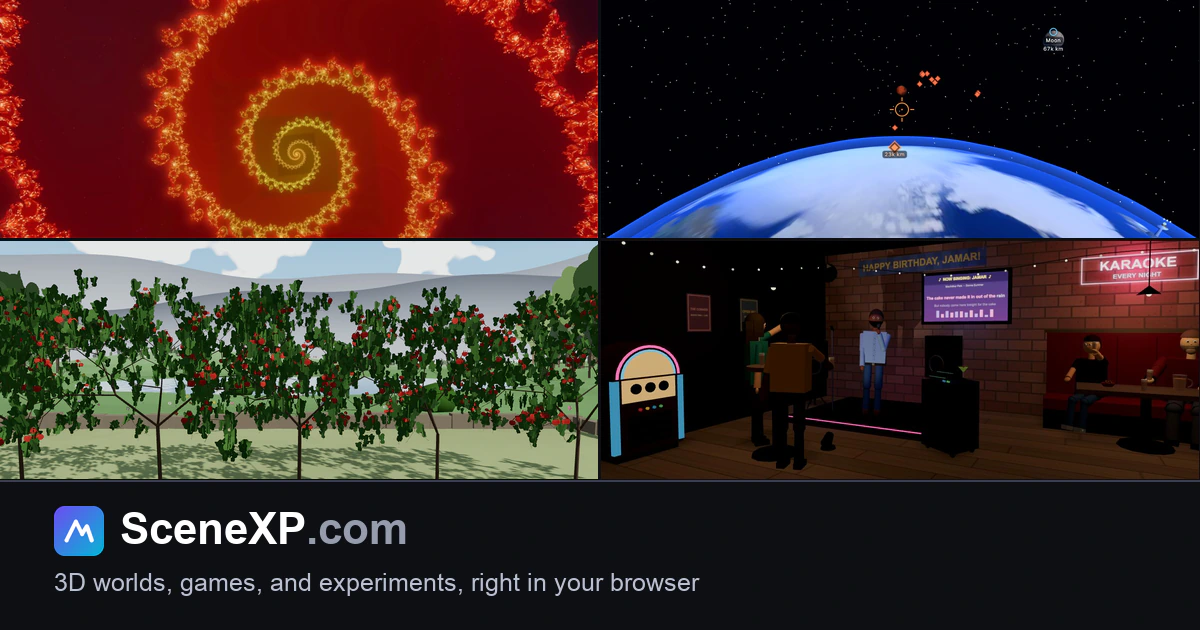
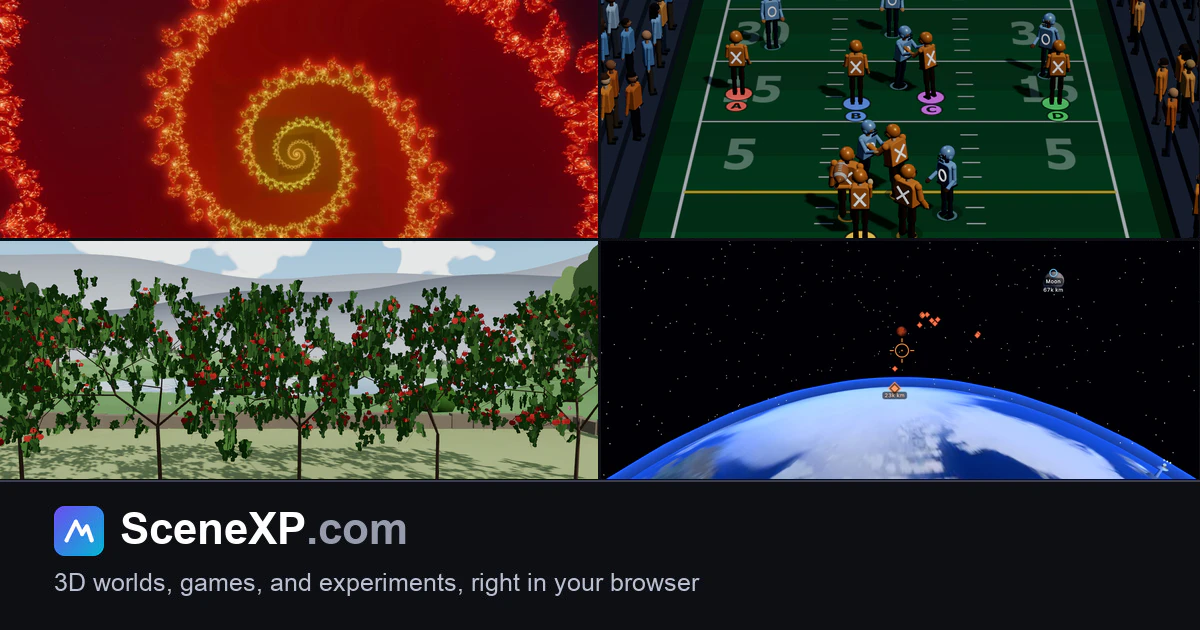
game progress

Changed region(s): [[0.4933, 0.0, 1.0, 0.7841]]

diff --git a/www/index.html b/www/index.html
@@ -24,7 +24,8 @@
     <meta property="og:site_name" content="SceneXP">
     <meta property="og:url" content="https://www.scenexp.com/">
     <meta property="og:locale" content="en_US">
-    <!-- THE CARD IS FOUR SCENES, NOT THE LOGO (rebuilt 2026-09-08, ?v=3). It
+    <!-- THE CARD IS FOUR SCENES, NOT THE LOGO (rebuilt 2026-09-08, ?v=3, and
+         again 2026-09-14, ?v=4, to put X's and O's in it). It
          used to be the wordmark on a dark gradient over the line "Custom 3D
          experiences, right in your browser", which had two problems by the
          time anyone went to promote the site. That tagline is the retired
@@ -33,35 +34,43 @@
          whose one attached image in every feed showed no 3D at all.
 
          THE FOUR TILES ARE CHOSEN FOR CONTRAST, not for ranking. Mandelbrot
-         (red), Earth Defense (black and blue), Fractal Garden (green) and
-         Jamar's Karaoke Night (dark and warm) look nothing like each other at
-         thumbnail size. Seven of the fourteen scenes are blue sky over green
-         trees, so picking on quality alone gives four tiles that read as one
-         repeated picture. Each tile is a centre crop of that scene's own
-         og-*.jpg, so the card rebuilds from shipped assets.
+         (red), X's and O's (dark green turf), Fractal Garden (bright green) and
+         Earth Defense (black and blue) look nothing like each other at
+         thumbnail size. Seven of the scenes are blue sky over green trees, so
+         picking on quality alone gives four tiles that read as one repeated
+         picture. X'S AND O'S TOOK JAMAR'S TILE, and Earth Defense moved to the
+         bottom right, so the two green tiles sit on a diagonal and the grid
+         reads light and dark as a checkerboard rather than as a green row.
+
+         THE RECIPE, since nothing else writes it down. Each tile is the scene's
+         own og-*.jpg resized to 598 wide and centre cropped to 598x238, placed
+         at (0,0), (601,0), (0,241) and (601,241), which leaves 3px gutters. The
+         band from y=479 down was kept from the previous card rather than
+         redrawn, and differs from it by 0.14% RMSE after re-encoding.
 
          q90 AT 4:4:4, WHICH WAS MEASURED OVER THE TEXT BAND rather than the
          whole frame: mandelbrot's filaments dominate a global RMSE and nobody
          will notice a filament move, while ringing on the wordmark would be
          the one visible defect. The band reads 0.0054 at 90 against 0.0072 at
          86, for 198.6 KB. Chroma subsampling stays off because the wordmark is
-         the only thing here that could show it.
+         the only thing here that could show it. The 2026-09-14 rebuild is
+         212 KB at the same settings, encoded progressive.
 
          The JPEG ships and the WebP sits beside it, per the note on every
          experience page. og:image:alt describes THIS picture, so it is
          rewritten whenever the card is. -->
-    <meta property="og:image" content="https://www.scenexp.com/assets/og-image.jpg?v=3">
+    <meta property="og:image" content="https://www.scenexp.com/assets/og-image.jpg?v=4">
     <meta property="og:image:type" content="image/jpeg">
     <meta property="og:image:width" content="1200">
     <meta property="og:image:height" content="630">
-    <meta property="og:image:alt" content="Four scenes from the SceneXP collection in a grid: a glowing orange fractal spiral, the blue curve of Earth seen from orbit with a targeting reticle and incoming raiders, a row of red-fruited trees in a green garden, and a karaoke stage in a dark bar. Below them the SceneXP.com wordmark and the line, 3D worlds, games, and experiments, right in your browser.">
+    <meta property="og:image:alt" content="Four scenes from the SceneXP collection in a grid: a glowing orange fractal spiral, a 3D football field with orange and blue players in the middle of a play, a row of red-fruited trees in a green garden, and the blue curve of Earth seen from orbit with a targeting reticle and incoming raiders. Below them the SceneXP.com wordmark and the line, 3D worlds, games, and experiments, right in your browser.">
 
     <!-- Twitter / X -->
     <meta name="twitter:card" content="summary_large_image">
     <meta name="twitter:title" content="SceneXP | 3D Worlds, Games, and Experiments">
     <meta name="twitter:description" content="3D worlds, games, experiments, and simulations, every one running entirely in your browser. No app and no download.">
-    <meta name="twitter:image" content="https://www.scenexp.com/assets/og-image.jpg?v=3">
-    <meta name="twitter:image:alt" content="Four scenes from the SceneXP collection in a grid: a glowing orange fractal spiral, the blue curve of Earth seen from orbit with a targeting reticle and incoming raiders, a row of red-fruited trees in a green garden, and a karaoke stage in a dark bar. Below them the SceneXP.com wordmark and the line, 3D worlds, games, and experiments, right in your browser.">
+    <meta name="twitter:image" content="https://www.scenexp.com/assets/og-image.jpg?v=4">
+    <meta name="twitter:image:alt" content="Four scenes from the SceneXP collection in a grid: a glowing orange fractal spiral, a 3D football field with orange and blue players in the middle of a play, a row of red-fruited trees in a green garden, and the blue curve of Earth seen from orbit with a targeting reticle and incoming raiders. Below them the SceneXP.com wordmark and the line, 3D worlds, games, and experiments, right in your browser.">
 
     <!-- Structured data: site identity plus the experience directory.
          JSON-LD is a data block (not executed), so it is allowed under the CSP.

diff --git a/www/terms.html b/www/terms.html
@@ -24,18 +24,18 @@
     <meta property="og:site_name" content="SceneXP">
     <meta property="og:url" content="https://www.scenexp.com/terms.html">
     <meta property="og:locale" content="en_US">
-    <meta property="og:image" content="https://www.scenexp.com/assets/og-image.jpg?v=3">
+    <meta property="og:image" content="https://www.scenexp.com/assets/og-image.jpg?v=4">
     <meta property="og:image:type" content="image/jpeg">
     <meta property="og:image:width" content="1200">
     <meta property="og:image:height" content="630">
-    <meta property="og:image:alt" content="Four scenes from the SceneXP collection in a grid: a glowing orange fractal spiral, the blue curve of Earth seen from orbit with a targeting reticle and incoming raiders, a row of red-fruited trees in a green garden, and a karaoke stage in a dark bar. Below them the SceneXP.com wordmark and the line, 3D worlds, games, and experiments, right in your browser.">
+    <meta property="og:image:alt" content="Four scenes from the SceneXP collection in a grid: a glowing orange fractal spiral, a 3D football field with orange and blue players in the middle of a play, a row of red-fruited trees in a green garden, and the blue curve of Earth seen from orbit with a targeting reticle and incoming raiders. Below them the SceneXP.com wordmark and the line, 3D worlds, games, and experiments, right in your browser.">
 
     <!-- Twitter / X -->
     <meta name="twitter:card" content="summary_large_image">
     <meta name="twitter:title" content="Terms | SceneXP">
     <meta name="twitter:description" content="The friendly terms for visiting SceneXP, including open source licenses and logo permissions.">
-    <meta name="twitter:image" content="https://www.scenexp.com/assets/og-image.jpg?v=3">
-    <meta name="twitter:image:alt" content="Four scenes from the SceneXP collection in a grid: a glowing orange fractal spiral, the blue curve of Earth seen from orbit with a targeting reticle and incoming raiders, a row of red-fruited trees in a green garden, and a karaoke stage in a dark bar. Below them the SceneXP.com wordmark and the line, 3D worlds, games, and experiments, right in your browser.">
+    <meta name="twitter:image" content="https://www.scenexp.com/assets/og-image.jpg?v=4">
+    <meta name="twitter:image:alt" content="Four scenes from the SceneXP collection in a grid: a glowing orange fractal spiral, a 3D football field with orange and blue players in the middle of a play, a row of red-fruited trees in a green garden, and the blue curve of Earth seen from orbit with a targeting reticle and incoming raiders. Below them the SceneXP.com wordmark and the line, 3D worlds, games, and experiments, right in your browser.">
 
     <!-- Structured data. JSON-LD is a data block (not executed), so it is allowed under the CSP. -->
     <script type="application/ld+json">
@@ -178,6 +178,10 @@
                     which is drawn in the page itself rather than loaded as a picture, so it travels with
                     our open source code without being covered by its license. The SceneXP name and mark
                     belong to Continuum Commerce LLC.</p>
+                <p>So do the X's and O's name, its orange X and blue O mascots, and the game's sound effects,
+                    which it shares with the original game at exesnohs.com. They ship with our open source
+                    code so the game can be played, but they are not covered by our MIT license either, and
+                    we would be grateful if they were not reused elsewhere.</p>
 
                 <h2>About the experiences</h2>
                 <p>The collection holds several kinds of 3D experience. Some are games, simulations, or
@@ -203,7 +207,7 @@
                 <p>If anything here is unclear, or if you are a logo owner or contributor with a question,
                     please <a href="/contact.html">reach out</a>. We would be glad to help.</p>
 
-                <p><em>Last updated July 24, 2026.</em></p>
+                <p><em>Last updated September 14, 2026.</em></p>
             </div>
         </div>
     </main>

diff --git a/www/contribute.html b/www/contribute.html
@@ -24,18 +24,18 @@
     <meta property="og:site_name" content="SceneXP">
     <meta property="og:url" content="https://www.scenexp.com/contribute.html">
     <meta property="og:locale" content="en_US">
-    <meta property="og:image" content="https://www.scenexp.com/assets/og-image.jpg?v=3">
+    <meta property="og:image" content="https://www.scenexp.com/assets/og-image.jpg?v=4">
     <meta property="og:image:type" content="image/jpeg">
     <meta property="og:image:width" content="1200">
     <meta property="og:image:height" content="630">
-    <meta property="og:image:alt" content="Four scenes from the SceneXP collection in a grid: a glowing orange fractal spiral, the blue curve of Earth seen from orbit with a targeting reticle and incoming raiders, a row of red-fruited trees in a green garden, and a karaoke stage in a dark bar. Below them the SceneXP.com wordmark and the line, 3D worlds, games, and experiments, right in your browser.">
+    <meta property="og:image:alt" content="Four scenes from the SceneXP collection in a grid: a glowing orange fractal spiral, a 3D football field with orange and blue players in the middle of a play, a row of red-fruited trees in a green garden, and the blue curve of Earth seen from orbit with a targeting reticle and incoming raiders. Below them the SceneXP.com wordmark and the line, 3D worlds, games, and experiments, right in your browser.">
 
     <!-- Twitter / X -->
     <meta name="twitter:card" content="summary_large_image">
     <meta name="twitter:title" content="Contribute | SceneXP">
     <meta name="twitter:description" content="Build your own browser-native 3D world, game, or experiment with the SceneXP parts library and share it through a GitHub pull request.">
-    <meta name="twitter:image" content="https://www.scenexp.com/assets/og-image.jpg?v=3">
-    <meta name="twitter:image:alt" content="Four scenes from the SceneXP collection in a grid: a glowing orange fractal spiral, the blue curve of Earth seen from orbit with a targeting reticle and incoming raiders, a row of red-fruited trees in a green garden, and a karaoke stage in a dark bar. Below them the SceneXP.com wordmark and the line, 3D worlds, games, and experiments, right in your browser.">
+    <meta name="twitter:image" content="https://www.scenexp.com/assets/og-image.jpg?v=4">
+    <meta name="twitter:image:alt" content="Four scenes from the SceneXP collection in a grid: a glowing orange fractal spiral, a 3D football field with orange and blue players in the middle of a play, a row of red-fruited trees in a green garden, and the blue curve of Earth seen from orbit with a targeting reticle and incoming raiders. Below them the SceneXP.com wordmark and the line, 3D worlds, games, and experiments, right in your browser.">
 
     <!-- Structured data. JSON-LD is a data block (not executed), so it is allowed under the CSP. -->
     <script type="application/ld+json">

diff --git a/www/privacy.html b/www/privacy.html
@@ -24,18 +24,18 @@
     <meta property="og:site_name" content="SceneXP">
     <meta property="og:url" content="https://www.scenexp.com/privacy.html">
     <meta property="og:locale" content="en_US">
-    <meta property="og:image" content="https://www.scenexp.com/assets/og-image.jpg?v=3">
+    <meta property="og:image" content="https://www.scenexp.com/assets/og-image.jpg?v=4">
     <meta property="og:image:type" content="image/jpeg">
     <meta property="og:image:width" content="1200">
     <meta property="og:image:height" content="630">
-    <meta property="og:image:alt" content="Four scenes from the SceneXP collection in a grid: a glowing orange fractal spiral, the blue curve of Earth seen from orbit with a targeting reticle and incoming raiders, a row of red-fruited trees in a green garden, and a karaoke stage in a dark bar. Below them the SceneXP.com wordmark and the line, 3D worlds, games, and experiments, right in your browser.">
+    <meta property="og:image:alt" content="Four scenes from the SceneXP collection in a grid: a glowing orange fractal spiral, a 3D football field with orange and blue players in the middle of a play, a row of red-fruited trees in a green garden, and the blue curve of Earth seen from orbit with a targeting reticle and incoming raiders. Below them the SceneXP.com wordmark and the line, 3D worlds, games, and experiments, right in your browser.">
 
     <!-- Twitter / X -->
     <meta name="twitter:card" content="summary_large_image">
     <meta name="twitter:title" content="Privacy | SceneXP">
     <meta name="twitter:description" content="No accounts, no cookies, no third-party trackers, and only anonymized first-party usage counts.">
-    <meta name="twitter:image" content="https://www.scenexp.com/assets/og-image.jpg?v=3">
-    <meta name="twitter:image:alt" content="Four scenes from the SceneXP collection in a grid: a glowing orange fractal spiral, the blue curve of Earth seen from orbit with a targeting reticle and incoming raiders, a row of red-fruited trees in a green garden, and a karaoke stage in a dark bar. Below them the SceneXP.com wordmark and the line, 3D worlds, games, and experiments, right in your browser.">
+    <meta name="twitter:image" content="https://www.scenexp.com/assets/og-image.jpg?v=4">
+    <meta name="twitter:image:alt" content="Four scenes from the SceneXP collection in a grid: a glowing orange fractal spiral, a 3D football field with orange and blue players in the middle of a play, a row of red-fruited trees in a green garden, and the blue curve of Earth seen from orbit with a targeting reticle and incoming raiders. Below them the SceneXP.com wordmark and the line, 3D worlds, games, and experiments, right in your browser.">
 
     <!-- Structured data. JSON-LD is a data block (not executed), so it is allowed under the CSP. -->
     <script type="application/ld+json">

diff --git a/www/contact.html b/www/contact.html
@@ -24,18 +24,18 @@
     <meta property="og:site_name" content="SceneXP">
     <meta property="og:url" content="https://www.scenexp.com/contact.html">
     <meta property="og:locale" content="en_US">
-    <meta property="og:image" content="https://www.scenexp.com/assets/og-image.jpg?v=3">
+    <meta property="og:image" content="https://www.scenexp.com/assets/og-image.jpg?v=4">
     <meta property="og:image:type" content="image/jpeg">
     <meta property="og:image:width" content="1200">
     <meta property="og:image:height" content="630">
-    <meta property="og:image:alt" content="Four scenes from the SceneXP collection in a grid: a glowing orange fractal spiral, the blue curve of Earth seen from orbit with a targeting reticle and incoming raiders, a row of red-fruited trees in a green garden, and a karaoke stage in a dark bar. Below them the SceneXP.com wordmark and the line, 3D worlds, games, and experiments, right in your browser.">
+    <meta property="og:image:alt" content="Four scenes from the SceneXP collection in a grid: a glowing orange fractal spiral, a 3D football field with orange and blue players in the middle of a play, a row of red-fruited trees in a green garden, and the blue curve of Earth seen from orbit with a targeting reticle and incoming raiders. Below them the SceneXP.com wordmark and the line, 3D worlds, games, and experiments, right in your browser.">
 
     <!-- Twitter / X -->
     <meta name="twitter:card" content="summary_large_image">
     <meta name="twitter:title" content="Contact | SceneXP">
     <meta name="twitter:description" content="Request a custom 3D experience for someone you love or for your business.">
-    <meta name="twitter:image" content="https://www.scenexp.com/assets/og-image.jpg?v=3">
-    <meta name="twitter:image:alt" content="Four scenes from the SceneXP collection in a grid: a glowing orange fractal spiral, the blue curve of Earth seen from orbit with a targeting reticle and incoming raiders, a row of red-fruited trees in a green garden, and a karaoke stage in a dark bar. Below them the SceneXP.com wordmark and the line, 3D worlds, games, and experiments, right in your browser.">
+    <meta name="twitter:image" content="https://www.scenexp.com/assets/og-image.jpg?v=4">
+    <meta name="twitter:image:alt" content="Four scenes from the SceneXP collection in a grid: a glowing orange fractal spiral, a 3D football field with orange and blue players in the middle of a play, a row of red-fruited trees in a green garden, and the blue curve of Earth seen from orbit with a targeting reticle and incoming raiders. Below them the SceneXP.com wordmark and the line, 3D worlds, games, and experiments, right in your browser.">
 
     <!-- Structured data. JSON-LD is a data block (not executed), so it is allowed under the CSP. -->
     <script type="application/ld+json">

diff --git a/www/xo/index.html b/www/xo/index.html
@@ -304,7 +304,8 @@
     </div>
 
     <!-- THE PLAYBOOK (M3). Its contents are built by playbook-ui.js from the
-         play table, because ten cards of identical shape are data, not markup.
+         play table, because seventeen cards of identical shape are data, not
+         markup.
          The shell is here so the stylesheet has something stable to hang on.
 
          IT DOES NOT USE THE SHARED MODAL CLASSES. The shared stylesheet scopes
@@ -312,10 +313,7 @@
          layout, and a near-opaque generic backdrop that would black out the
          whole scene. Everything this needs is in experience.css under its own
          names, including the `[hidden]` rule, which a `display: flex` would
-         otherwise override.
-
-         THE WELCOME CARD IS STILL TO COME AT M4, along with the snap button
-         the skip link will finally have somewhere to point at. -->
+         otherwise override. -->
     <div id="playbook" class="playbook" hidden>
         <div class="playbook-panel" role="dialog" aria-modal="true"
             aria-labelledby="playbook-title">

diff --git a/www/xo/css/experience.css b/www/xo/css/experience.css
@@ -13,9 +13,9 @@
  * is chosen against that frame first and given room in landscape, not the
  * other way round.
  *
- * SHIPPED SO FAR (M0 and the field half of M1): the loading screen's stadium
- * treatment and the night backdrop. Still to come: the playbook and its
- * diagrams at M3, the HUD and result card at M4, the replay controls at M5.
+ * IN ORDER BELOW: the loading screen, the field vignette, the playbook and
+ * its diagrams, the HUD and the throw buttons, the result and summary cards,
+ * the sound button, the welcome card, and the title over a milestone show.
  */
 
 /* The page behind the canvas. The renderer paints a night sky, but the body

diff --git a/README.md b/README.md
@@ -4,7 +4,7 @@
 
 3D worlds, games, and experiments, right in your browser. Built with [Three.js](https://threejs.org/) and nothing else but browser-native HTML, CSS, and JavaScript.
 
-[![SceneXP.com, custom 3D experiences, right in your browser](www/assets/og-image.jpg)](https://www.scenexp.com/)
+[![Four scenes from the SceneXP collection: a fractal spiral, a 3D football game, a fruit tree garden, and Earth from orbit, over the SceneXP.com wordmark and the line, 3D worlds, games, and experiments, right in your browser](www/assets/og-image.jpg)](https://www.scenexp.com/)
 
 [SceneXP.com](https://www.scenexp.com/) is a live website and a home for browser-native 3D experiences: worlds, games, experiments, stories, and simulations. Some were built to honor a person, place, or business. Others exist to show visitors what a browser can do. New experiences land regularly.
 
@@ -62,6 +62,7 @@ The 3D experiences send anonymized, fire-and-forget usage pings to a static endp
 - The Interstate Tire name, logo, and related graphics are likewise trademarks of their owner, appearing on the live site as part of a tribute experience with the owner's kind permission, and carry the same restrictions.
 - The Sunnyvale Jenn Consulting name and logo, the watercolor lotus mark and its wordmark, belong to Jenn and appear on the live site as part of a tribute experience with her kind permission. They carry the same restrictions.
 - The Auto Man name, John Walker's three-blade W mark, his printed flyer, and the photographs of him are his property, and appear on the live site as part of a tribute experience with his blessing. They carry the same restrictions, with two things particular to this one. **His W is the one trademark here that ships inside this repository**, as [`www/automan/favicon.svg`](www/automan/favicon.svg), as the social card beside it, and as inline SVG in the page itself, for the reason set out below. And the photographs and the flyer are his likeness rather than a trademark, so please treat them with the same care you would want for your own.
+- The X's and O's name, its orange X and blue O mascot artwork (`www/xo/favicon.ico` and `www/xo/assets/exes-n-ohs-logo-*.jpg`), and the game's sound effects in `www/xo/assets/audio/` belong to Continuum Commerce LLC, and are shared with the original 2D game at exesnohs.com. Unlike the tribute artwork, they do ship in this repository, because the game is our own. They are still not covered by the MIT license, so please do not reuse them in a project of your own.
 
 Most of that artwork is not included in this repository. The Interstate Tire and Seed to Seed logo files, the Interstate favicon, the social preview captures that show those logos in-scene, the photographs of the people these experiences honor, and The Auto Man scene's flyer are all listed in `.gitignore` and never ship. On a fresh clone those experiences show blank spots where the artwork belongs. Like the empty `snaps/` folders noted above, that is expected. If you fork this repository for your own site, please supply your own artwork in their place.
 
